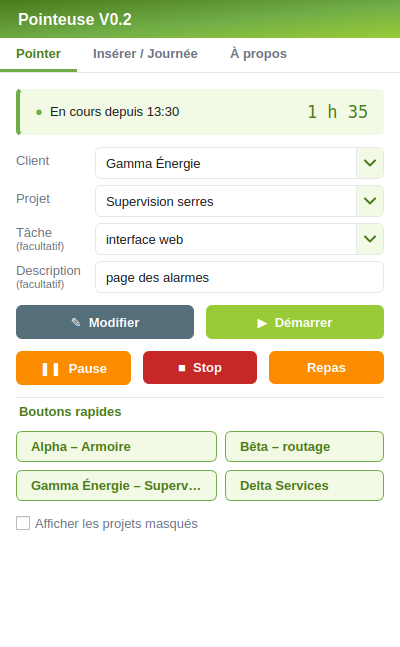
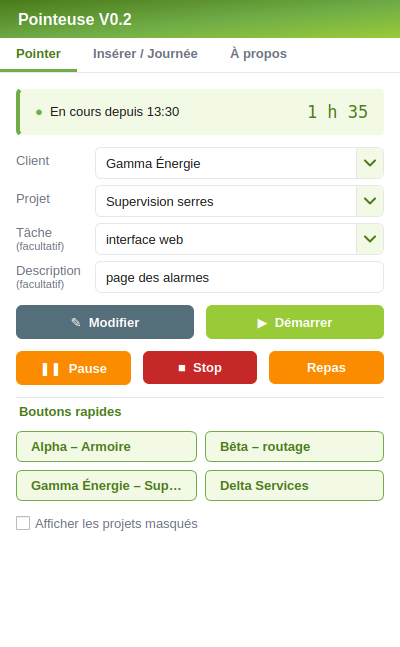
Boutons rapides : texte mesuré avec la police de la feuille de style ; test indépendant de la police de l'OS (CI Windows)

Changed region(s): [[0.42, 0.6491, 0.84, 0.7728]]

diff --git a/tests/test_interface.py b/tests/test_interface.py
@@ -386,6 +386,15 @@ def textes_raccourcis(pointer) -> list[str]:
     return [b.text() for b in pointer.boutons_raccourcis]
 
 
+def texte_ou_debut(texte: str, libelle: str) -> bool:
+    """Le libellé entier, ou son début suivi de « … » : l'endroit de la coupure dépend de la
+    police de l'OS (sous Windows, la CI hors écran coupe même « Delta Services »)."""
+    if texte == libelle:
+        return True
+    debut = texte.removesuffix("…")
+    return texte.endswith("…") and len(debut) >= 3 and libelle.startswith(debut)
+
+
 def test_etat_des_boutons(pointer, moteur, horloge):
     assert not pointer.bouton_modifier.isEnabled()
     assert not pointer.bouton_stop.isEnabled()
@@ -433,10 +442,8 @@ def test_boutons_rapides_affiches_et_reconstruits(pointer, moteur):
     ajouter_raccourcis(moteur)
     pointer.rafraichir()
     textes = textes_raccourcis(pointer)
-    # Tronqué « … » à la largeur d'une colonne ; la coupure dépend de la police de l'OS.
-    assert textes[0].startswith("Alpha")
-    assert "Alpha Industrie – Armoire ligne 2".startswith(textes[0].removesuffix("…"))
-    assert textes[1] == "Delta Services"
+    assert texte_ou_debut(textes[0], "Alpha Industrie – Armoire ligne 2")
+    assert texte_ou_debut(textes[1], "Delta Services")
     assert "Projet : Armoire ligne 2" in pointer.boutons_raccourcis[0].toolTip()
     assert not pointer.titre_raccourcis.isHidden()
     assert "à compléter" in pointer.boutons_raccourcis[1].toolTip()

diff --git a/src/pointeuse/panneau.py b/src/pointeuse/panneau.py
@@ -168,6 +168,7 @@ class OngletPointer(QWidget):
         largeur_texte = (settings.LARGEUR_PANNEAU_PX - marges) // colonnes - 2 * 14   # padding du bouton
         for rang, raccourci in enumerate(raccourcis):
             bouton = QPushButton(objectName="raccourci")
+            bouton.ensurePolished()   # police de la feuille de style (gras) pour mesurer le texte
             bouton.setText(bouton.fontMetrics().elidedText(raccourci.libelle, Qt.ElideRight, largeur_texte))
             bouton.setToolTip(self._info_raccourci(raccourci))
             bouton.clicked.connect(lambda _=False, r=raccourci: self.lancer_raccourci(r))
